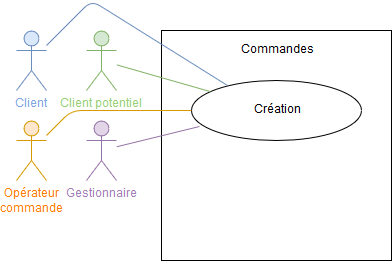
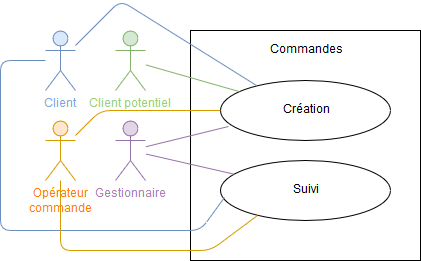
03-02 : description + fiche + diagramme activité + modif diagramme uc 03

diff --git a/packages/03-commandes/02-suivi/02-fiche.md b/packages/03-commandes/02-suivi/02-fiche.md
@@ -1,0 +1,45 @@
+# UC 03-02 : suivi de commandes
+
+## Présentation du cas
+
+Le système doit proposer une méthode de suivi à l'utilisateur, de la validation finale de la commande à la livraison.
+
+## Prérequis / condition(s) initiale(s)
+
+Une commande est passée.
+
+## Objectif(s)
+
+Permettre au client de suivre l'avancée de sa livraison et mener des opérations correctives si l'étape de la livraison l'autorise.
+
+## Acteur(s) principal(aux)
+
+Client ou opérateur de commande ou gestionnaire.
+
+## Acteur(s) secondaire(s)
+
+N/A
+
+## Événement déclencheur
+
+L'utilisateur souhaite consulter l'état de sa commande et/ou la modifier (voire l'annuler).
+
+## Étape par étape
+
+1. L'utilisateur affiche la page dédiée à la commande de son choix.
+2. L'utilisateur interagit avec sa commande.
+
+## Scénarios d'exception
+
+2. 1. L'utilisateur souhaite modifier la commande.
+   2. Si le travail de réalisation de la pizza n'est pas encore en cours.
+      1. L'utilisateur peut modifier le contenu de sa commande
+      2. L'utilisateur peut modifier ses informations de livraison.
+   3. Si la livraison n'est pas encore en cours.
+      1. L'utilisateur peut modifier ses informations de livraison.
+
+<!-- -->
+
+2. 1. L'utilisateur souhaite annuler sa commande.
+   2. Si l'état de la commande le permet, le système supprime la commande.
+   3. Si le paiement a été réalisé en ligne, le système annule le paiement auprès du système bancaire.

diff --git a/packages/03-commandes/02-suivi/02-description.md b/packages/03-commandes/02-suivi/02-description.md
@@ -1,0 +1,9 @@
+# UC 03-02 : suivi de commandes
+
+Lorsqu'une commande a été réalisée et validée, celle-ci est disponible dans l'interface de gestion des commandes. Si elle est toujours active, elle apparaîtra dans une section "commande en cours", sinon elle sera dans une section "historique".
+
+Pour les commandes en cours, il est nécessaire de permettre au client de suivre sa réalisation. A chaque étape, le client aura droit ou non à des actions.
+
+Si la commande n'est pas trop avancée et qu'elle n'a pas encore été prise en charge par un pizzaiolo, il aura le droit de la modifier ou de la supprimer. Si la livraison n'est pas encore en cours, il pourra modifier son adresse.
+
+Les opérateurs de commandes doivent avoir les mêmes droits, tout comme les gestionnaires.

diff --git a/packages/03-commandes/02-suivi/README.md b/packages/03-commandes/02-suivi/README.md
@@ -1,0 +1,1 @@
+![Diagramme d'activité pour l'UC suivi de commandes](../../../diagrammes/packages/03-commandes/02-suivi/03-02-diag-activité.png)
